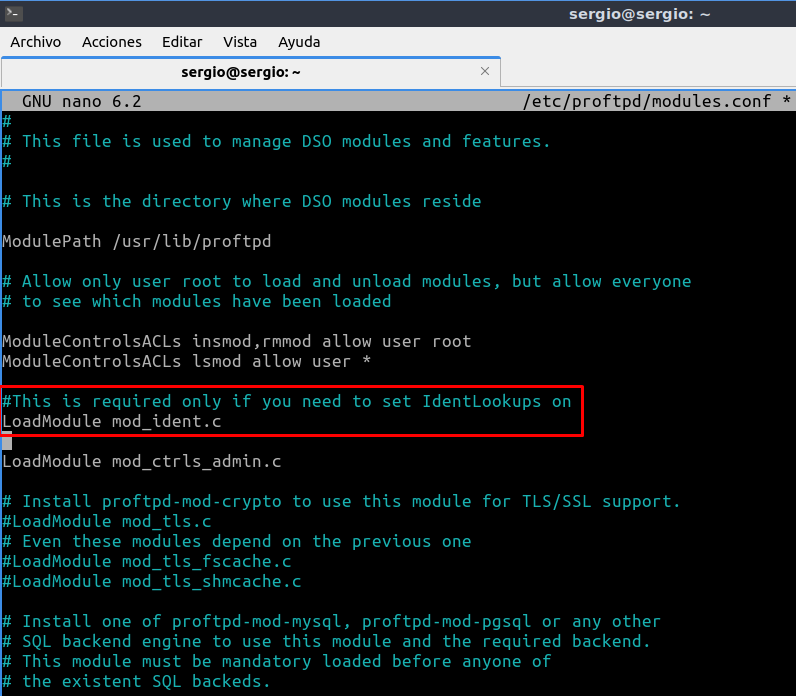
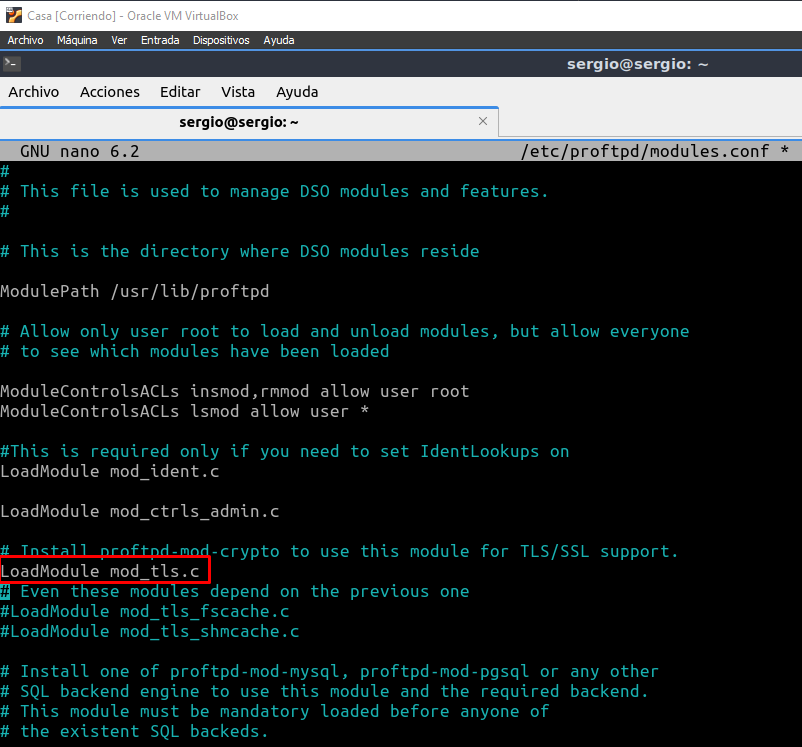
Añado últimos cambios

diff --git a/Documentacion.md b/Documentacion.md
@@ -593,22 +593,67 @@ sudo openssl s_client -connect 10.0.2.8:21 -starttls ftp
 
 ![Pruebo que se ha establecido la comunicación TLS entre "Casa" y "Servidor"](./img/63_ftp.png)
 
+![Pruebo que se ha establecido la comunicación TLS entre "Casa" y "Servidor"](./img/64_ftp.png)
+
+![Pruebo que se ha establecido la comunicación TLS entre "Casa" y "Servidor"](./img/65_ftp.png)
+
+Me sale mucho texto diciendo que se conecta correctamente.
+
 10. Vuelve a probar a acceder al servidor usando la conexión segura. Primero con la aplicación gráfica filezilla. Crea una nueva conexión en el gestor de sitios con el protocolo FTP y el cifrado 'Requiere FTP explícito sobre TLS'. Recuerda activar el modo de transferencia activa en la pestaña 'Opciones de transferencia'
 
-Nos dirigimos a "**Filezilla**", creamos el sitio nuevo y establecemos la configuración que nos ha pedido en la actividad:
+Nos dirigimos a "**Filezilla**", creamos el sitio nuevo y establecemos la configuración que nos ha pedido en la actividad. Creo una nueva conexión en el gestor de sitios con el protocolo FTP y el cifrado 'Requiere FTP explícito sobre TLS':
 
+![Pruebo que se ha establecido la comunicación TLS desde "Filezilla"](./img/66_ftp.png)
 
+![Pruebo que se ha establecido la comunicación TLS desde "Filezilla"](./img/67_ftp.png)
 
+Me aparece esta pestaña:
 
+![Pruebo que se ha establecido la comunicación TLS desde "Filezilla"](./img/68_ftp.png)
 
+Y se realiza la conexión correctamente:
 
+![Pruebo que se ha establecido la comunicación TLS desde "Filezilla"](./img/69_ftp.png)
 
+11. Para probar con el terminal debemos instalarnos un nuevo paquete ya que el comando básico ``ftp`` no permite certificados. Instala en el equipo **Casa** el paquete ``lftp``:
 
+```bash
+exit
+sudo apt install lftp
+```
 
+Nos cambiamos al equipo **Casa** y ejecutamos el comando.
 
+![Pruebo que se ha establecido la comunicación TLS entre "Casa" y "Servidor"](./img/70_ftp.png)
 
+12. Ahora configura el comando ``lftp`` creando un archivo de configuración ``nano ~/.lftprc`` con el siguiente contenido:
 
-5. A continuación debemos incluir el archivo tls.conf en el archivo proftpd.conf. Editamos el
-archivo de configuración: /etc/proftpd/proftpd.conf. Descomentar la línea: Include
-/etc/proftpd/tls.conf
+```bash
+set ftp:passive-mode off
+set ftp:ssl-auth TLS
+set ftp:ssl-force true
+set ftp:ssl-protect-list yes
+set ftp:ssl-protect-data yes
+set ftp:ssl-protect-fxp yes
+set ssl:verify-certificate no
+```
 
+Configuramos: el modo de transferencia en activo, forzamos el uso de ssl y la autentificación con TLS. Además como nuestro certificado en autofirmado establecemos que no se verifique el certificado.
+
+Resultado:
+
+![Configuro el comando "lftp" creando un archivo de configuración](./img/71_ftp.png)
+
+![Configuro el comando "lftp" creando un archivo de configuración](./img/72_ftp.png)
+
+13. Prueba a acceder desde el terminal con:
+
+```bash
+lftp sergio@10.0.2.8
+```
+
+Resultado:
+
+![Conectarme con lftp al "Servidor"](./img/73_ftp.png)
+
+## Oliver Fabian Stetcu Stepanov
